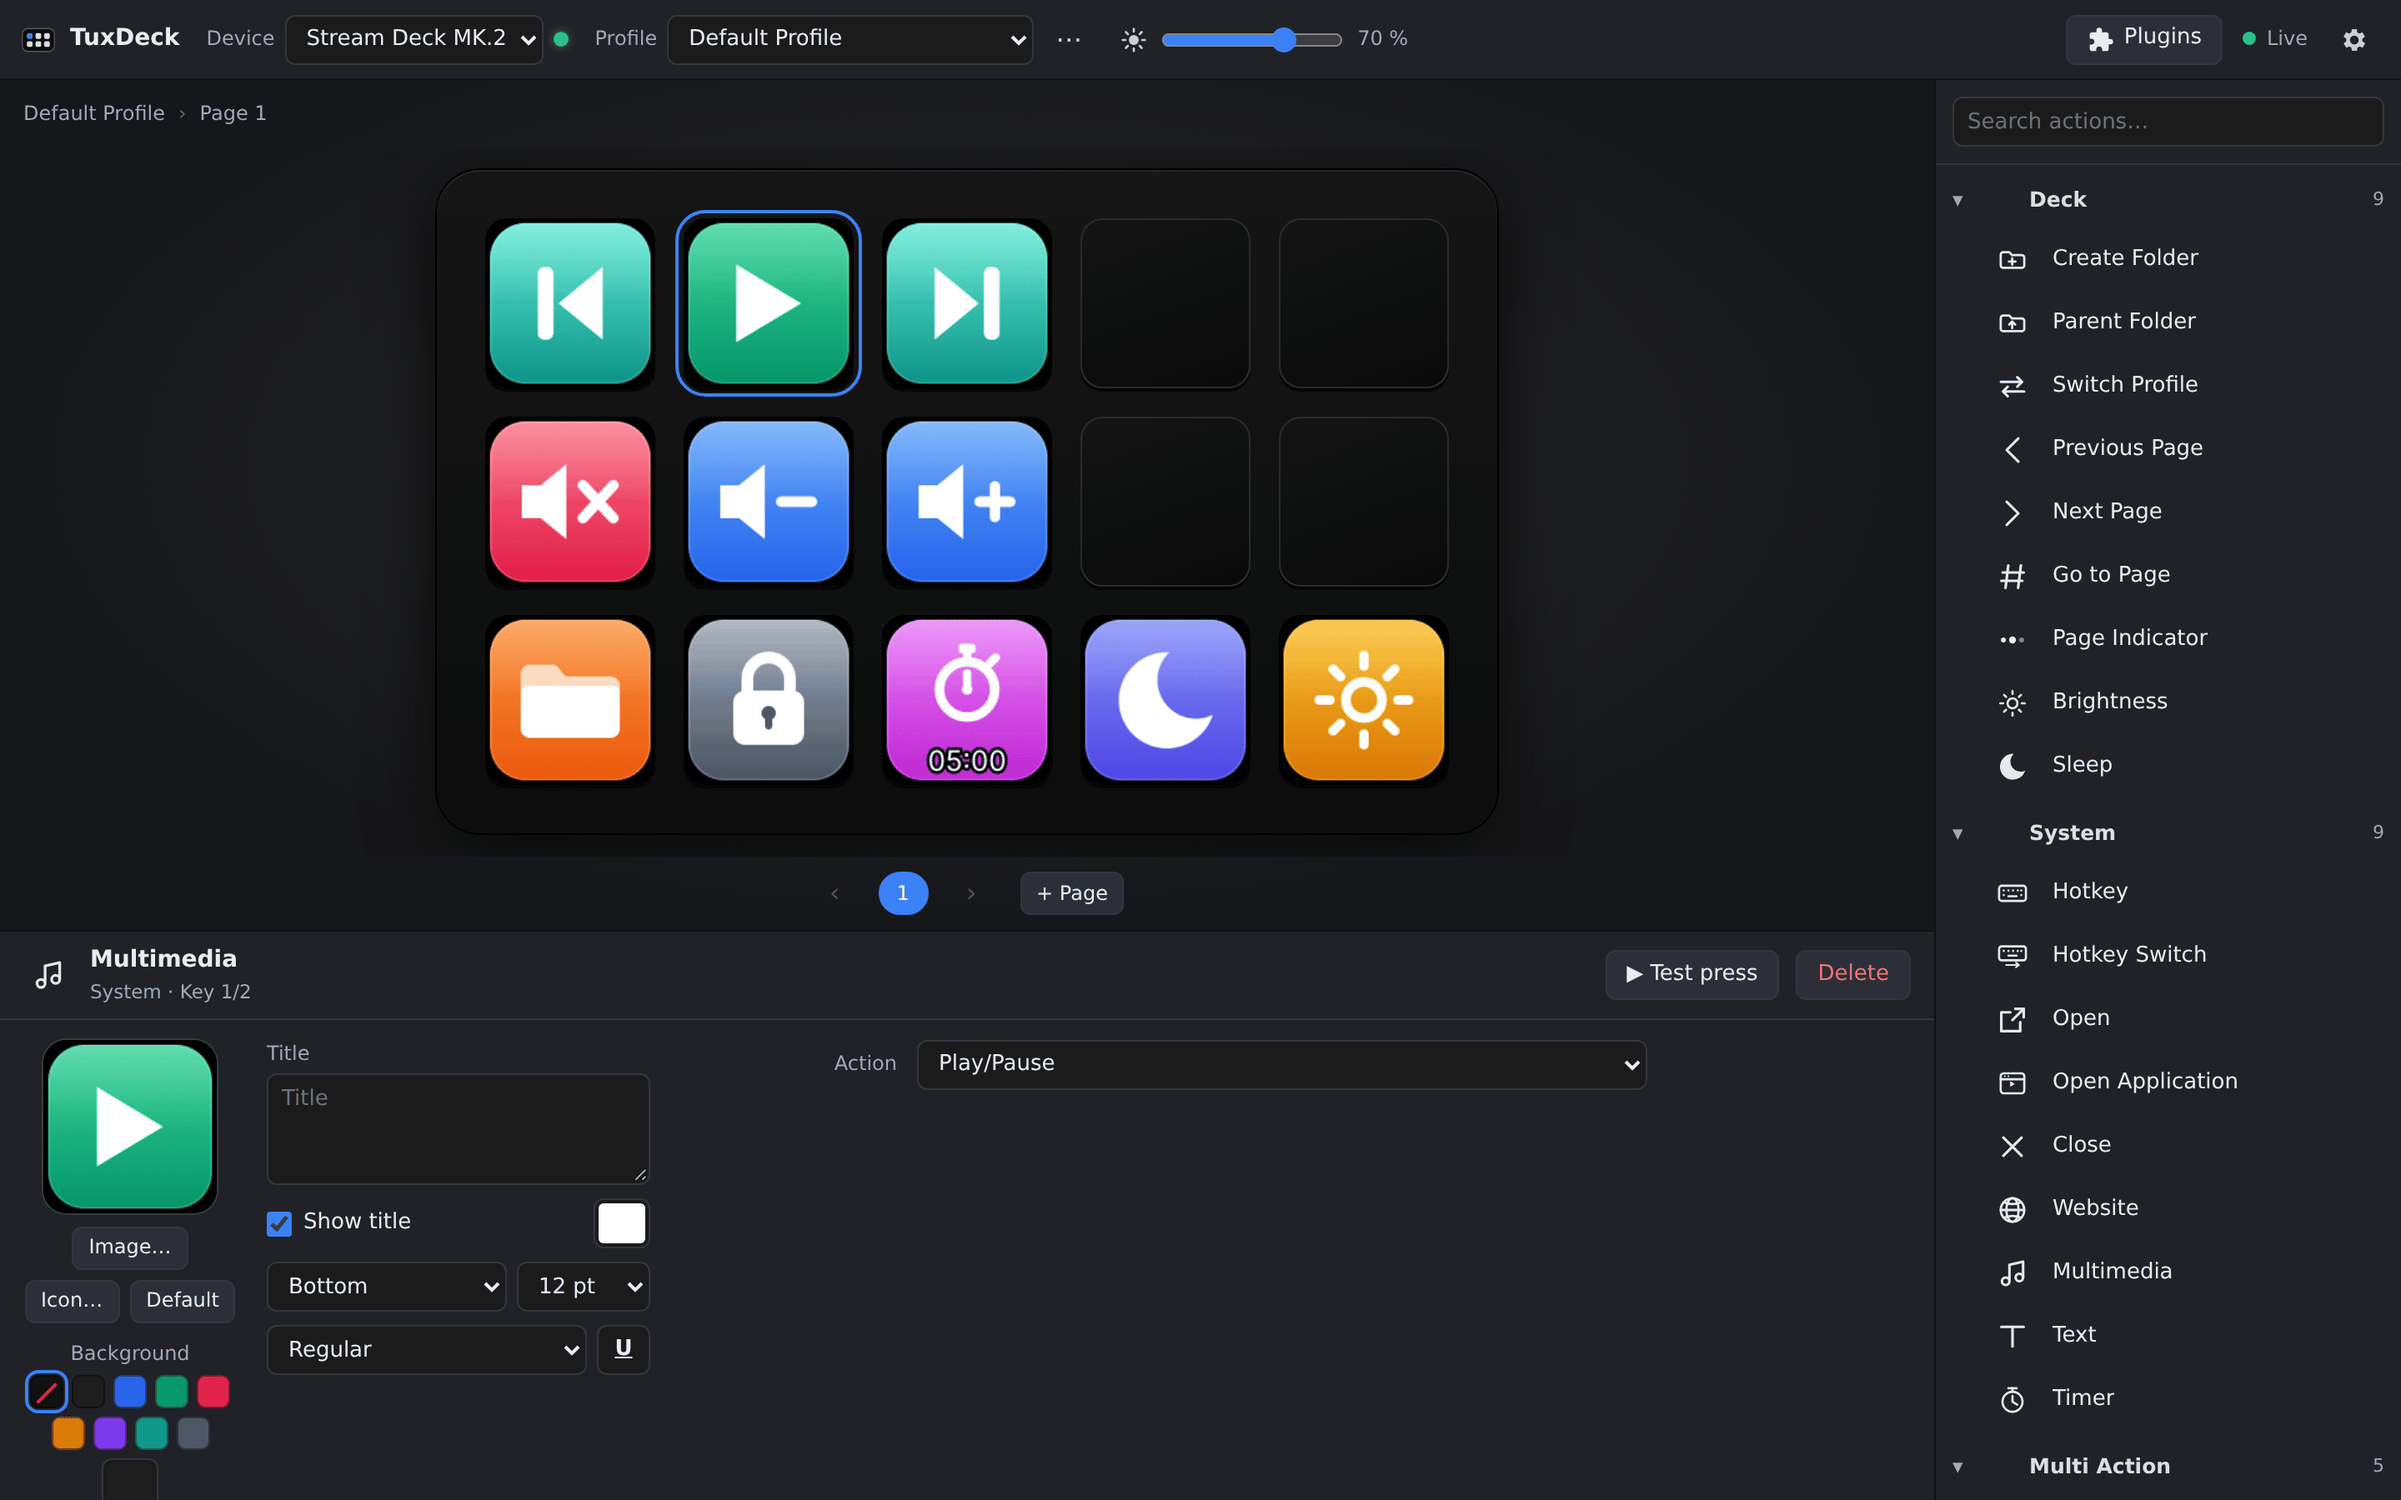
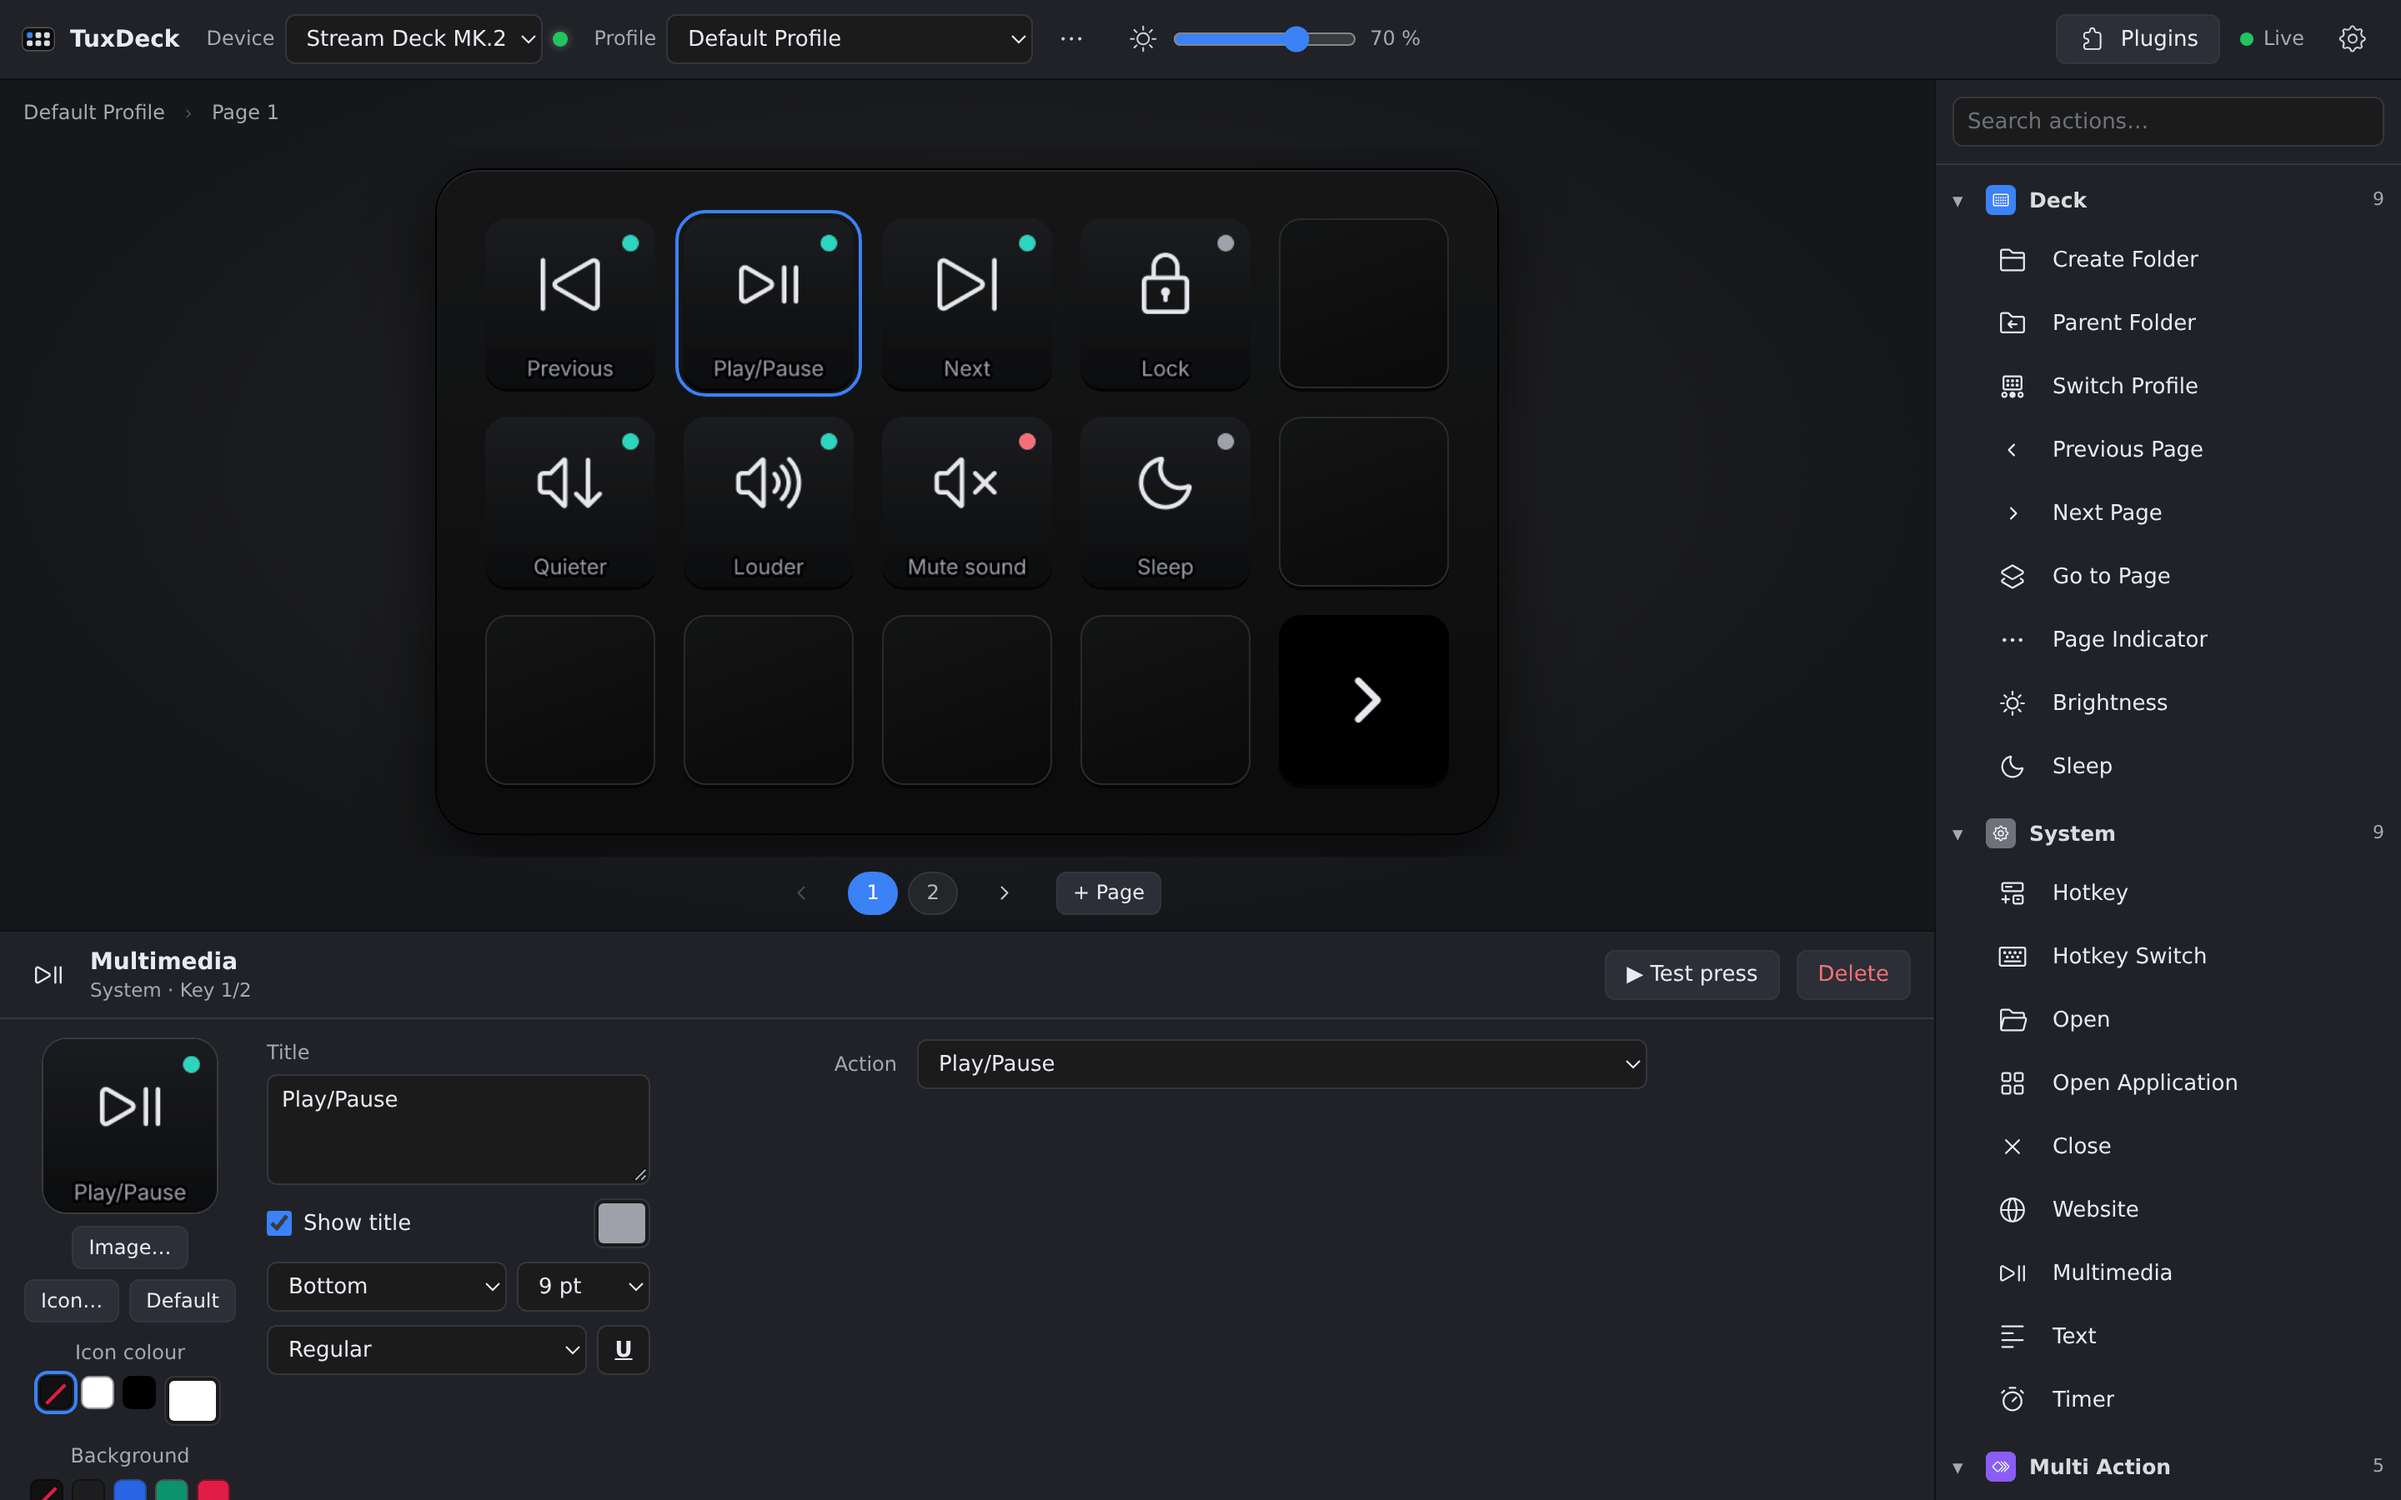
Release 0.6.0-beta.2
Version 0.6.0-beta.2 (Cargo.toml, Cargo.lock, default.nix, third-party list), changelog
section dated, README names the new sample profiles, new screenshots of the editor
(new starter profile, Elgato icons) and of the plugin catalogue (neutral letter icons).

diff --git a/README.md b/README.md
@@ -81,9 +81,9 @@ Fedora 36). Raspberry Pi, NixOS or older systems: [build from source](https://gi
 3. **Need more room?** Add a page below the deck, or drop a *Create Folder* action.
 4. **Add plugins.** *Plugins*, top right. Install from the catalogue, or drop a
    `.streamDeckPlugin` file onto the window.
-5. **Want a head start?** `⋯` next to the profile name → *Add a sample profile…*: Stream
-   (OBS), Work or Play. They come with the app; keys for programs you don't have stay
-   empty until you give them a command.
+5. **Want a head start?** `⋯` next to the profile name → *Add a sample profile…*:
+   Standard, Work, Play (Discord, games) or Streaming (OBS). They come with the app; keys
+   for programs you don't have stay empty until you give them a command.
 6. **Coming from Windows or macOS?** Export your profiles there and import them via the
    same `⋯` menu. TuxDeck offers to convert them for Linux once.
 

diff --git a/THIRD-PARTY-LICENSES.md b/THIRD-PARTY-LICENSES.md
@@ -7423,7 +7423,7 @@ SOFTWARE.
 ## MIT License
 
 Used by:
-- [tuxdeck 0.6.0-beta.1](https://github.com/tobayashi-san/tuxdeck)
+- [tuxdeck 0.6.0-beta.2](https://github.com/tobayashi-san/tuxdeck)
 
 ```text
 MIT License

diff --git a/CHANGELOG.md b/CHANGELOG.md
@@ -1,6 +1,6 @@
 # Changelog
 
-## Unreleased
+## 0.6.0-beta.2 – 2026-11-01
 
 - **Security** (findings of a full review):
   - Deleting or replacing a folder key of an imported profile could delete a folder
